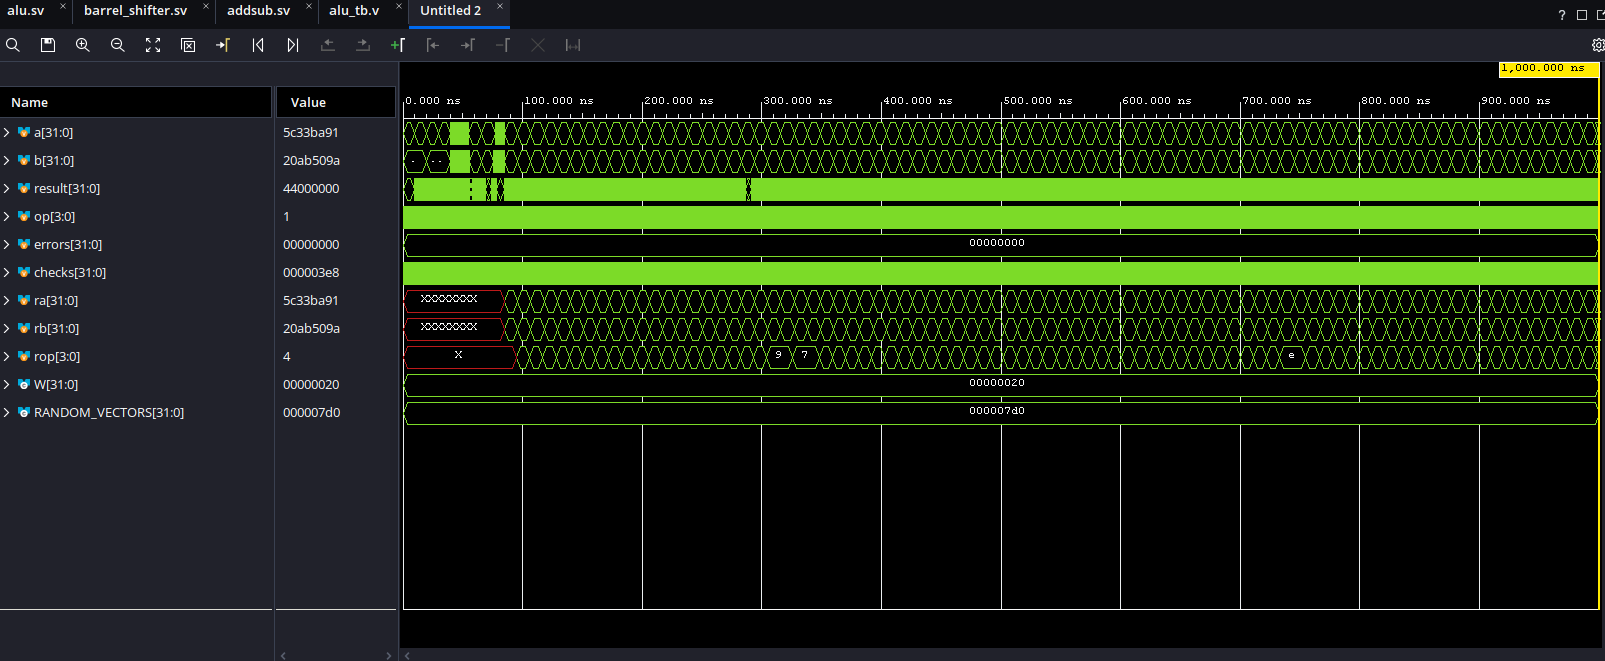
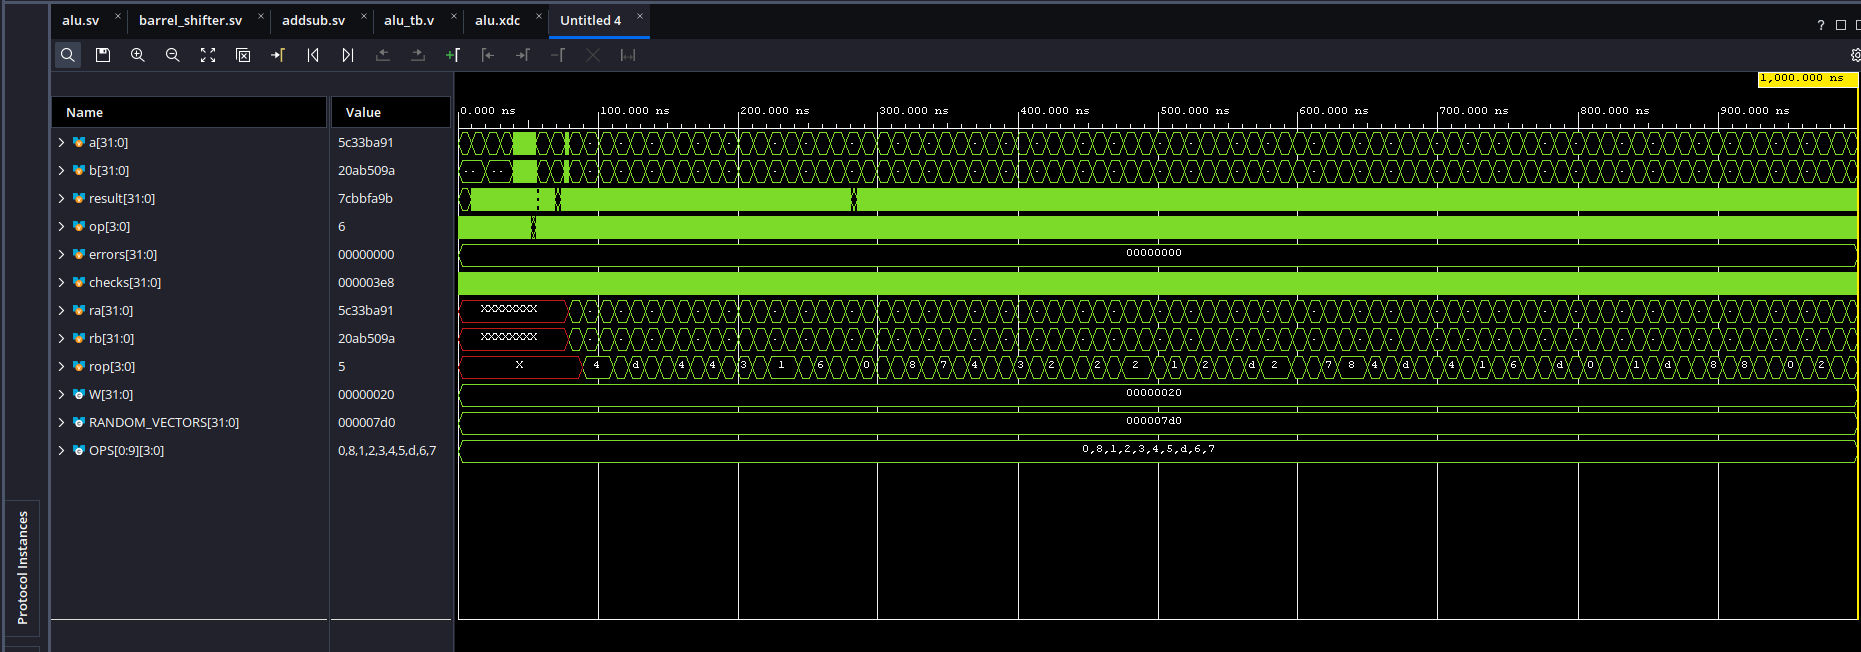
probably the best alu we can come up with

diff --git a/stages/alu/README.md b/stages/alu/README.md
@@ -105,7 +105,44 @@ INFO: [USF-XSim-97] XSim simulation ran for 1000ns
 run all
 === 22085 checks, 0 errors ===
 PASS
-$finish called at time : 22085 ns : File "C:/Users/peyto/vivado_projects/stages/alu/alu.srcs/sim_1/new/alu_tb.v" Line 190
+
 ```
 
+
+
+### Update:
+Upon further review,  improvements can be made. The ALU already filters for op[3] and handles it appropriately, so including that bit in the mux is wasting a lot of space.
+
+ After validating inputs, our new LUT count is:
+ | | |
+|---|---|
+|LUT6 | 181|
+|LUT5 |  12|
+|LUT4 |  40|
+|LUT3 |  26|
+|LUT2 |   1|
+|total| 260|
+
+ Which, shaves off 52 LUTs from 312.
+  Actually, if we keep approaching this from a minimum responsibility angle, we dont even need to validate opcodes.
+  Modifying the testbench accordingly to account that we never receive bad ops, we pass everything still. Synthesis yields:
+  | | |
+|---|---|
+|LUT6 | 184|
+|LUT5 |  24|
+|LUT4 |  32|
+|LUT3 |   7|
+|LUT2 |   3|
+|total| 250|
+ Shaving off 10 LUTs. So 62 LUTs total!
+ Additionally, a timing test under 8ns budget returned a WNS of +2.078!! Though I will admit, a lot of this is attributed to OOC synthesis, and because of improper version control practices, I cannot replicate this behavior for the other versions. Going forward, going to keep that in mind but we're gonna call this an area win.
+```
+ALU testbench, W=32
+surgical done: 79 checks, 0 errors
+INFO: [USF-XSim-96] XSim completed. Design snapshot 'alu_tb_behav' loaded.
+INFO: [USF-XSim-97] XSim simulation ran for 1000ns
+run all
+=== 22079 checks, 0 errors ===
+PASS
+```
 [alu waveform!](./alu-waveform.png)
